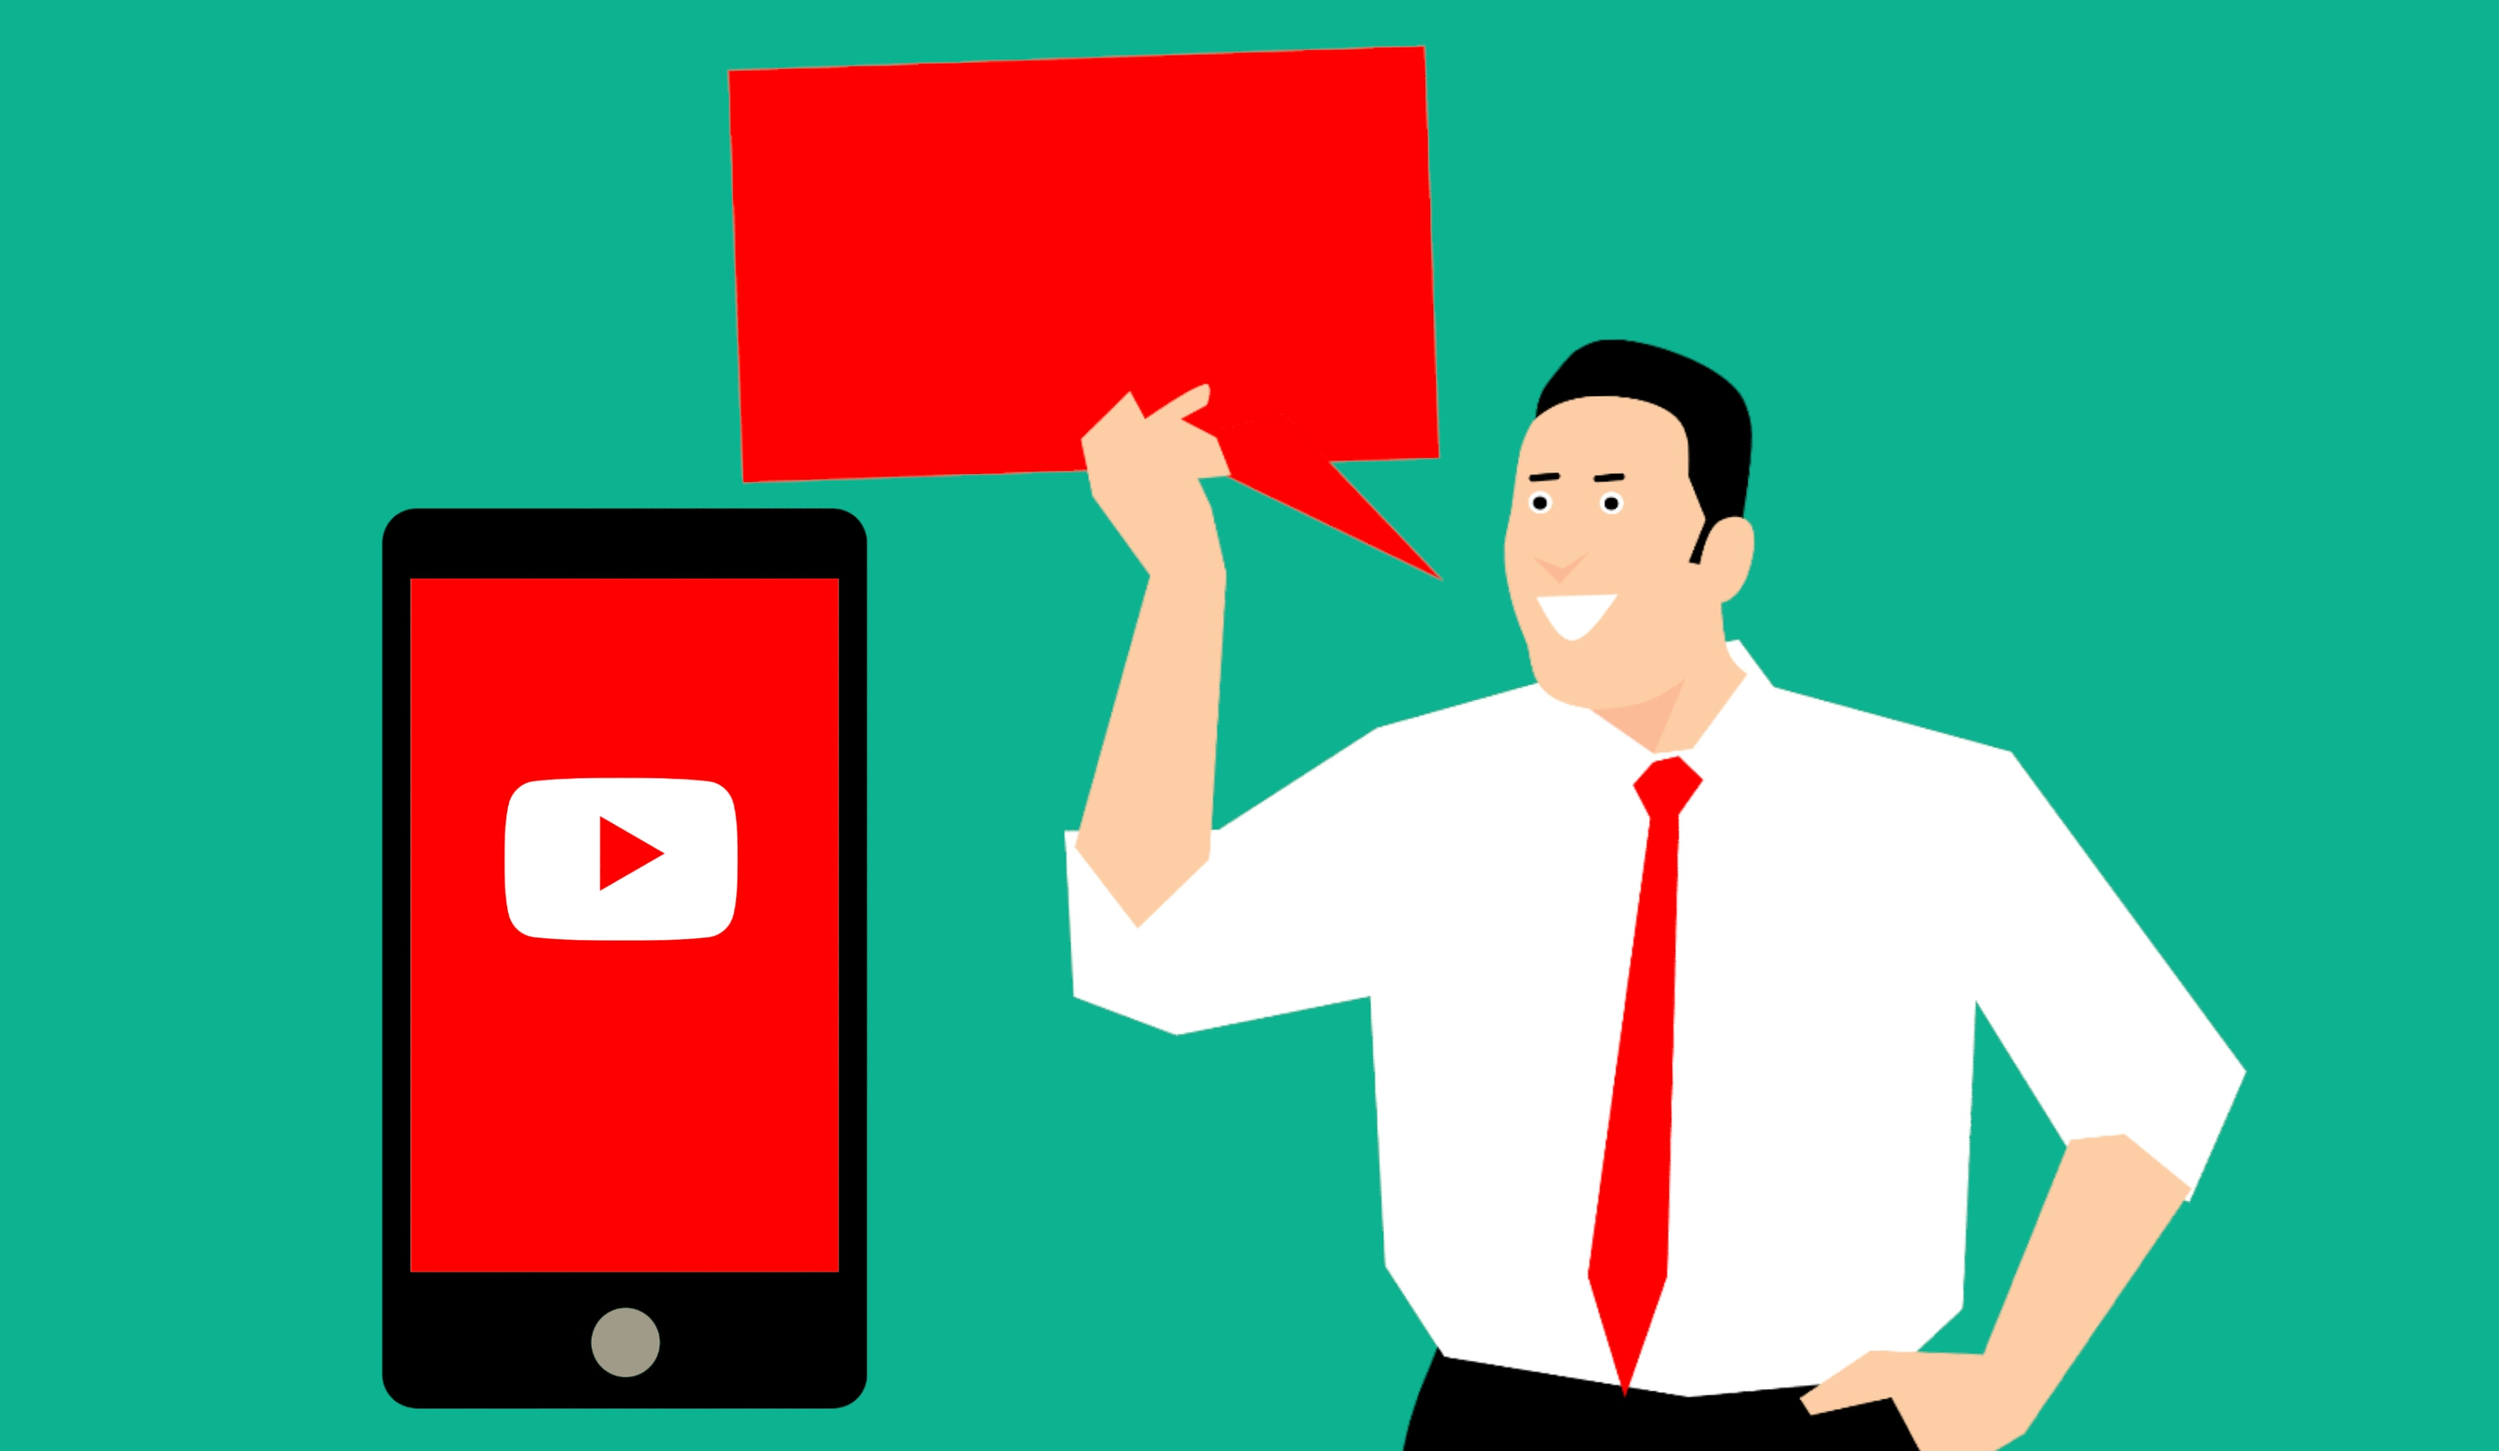
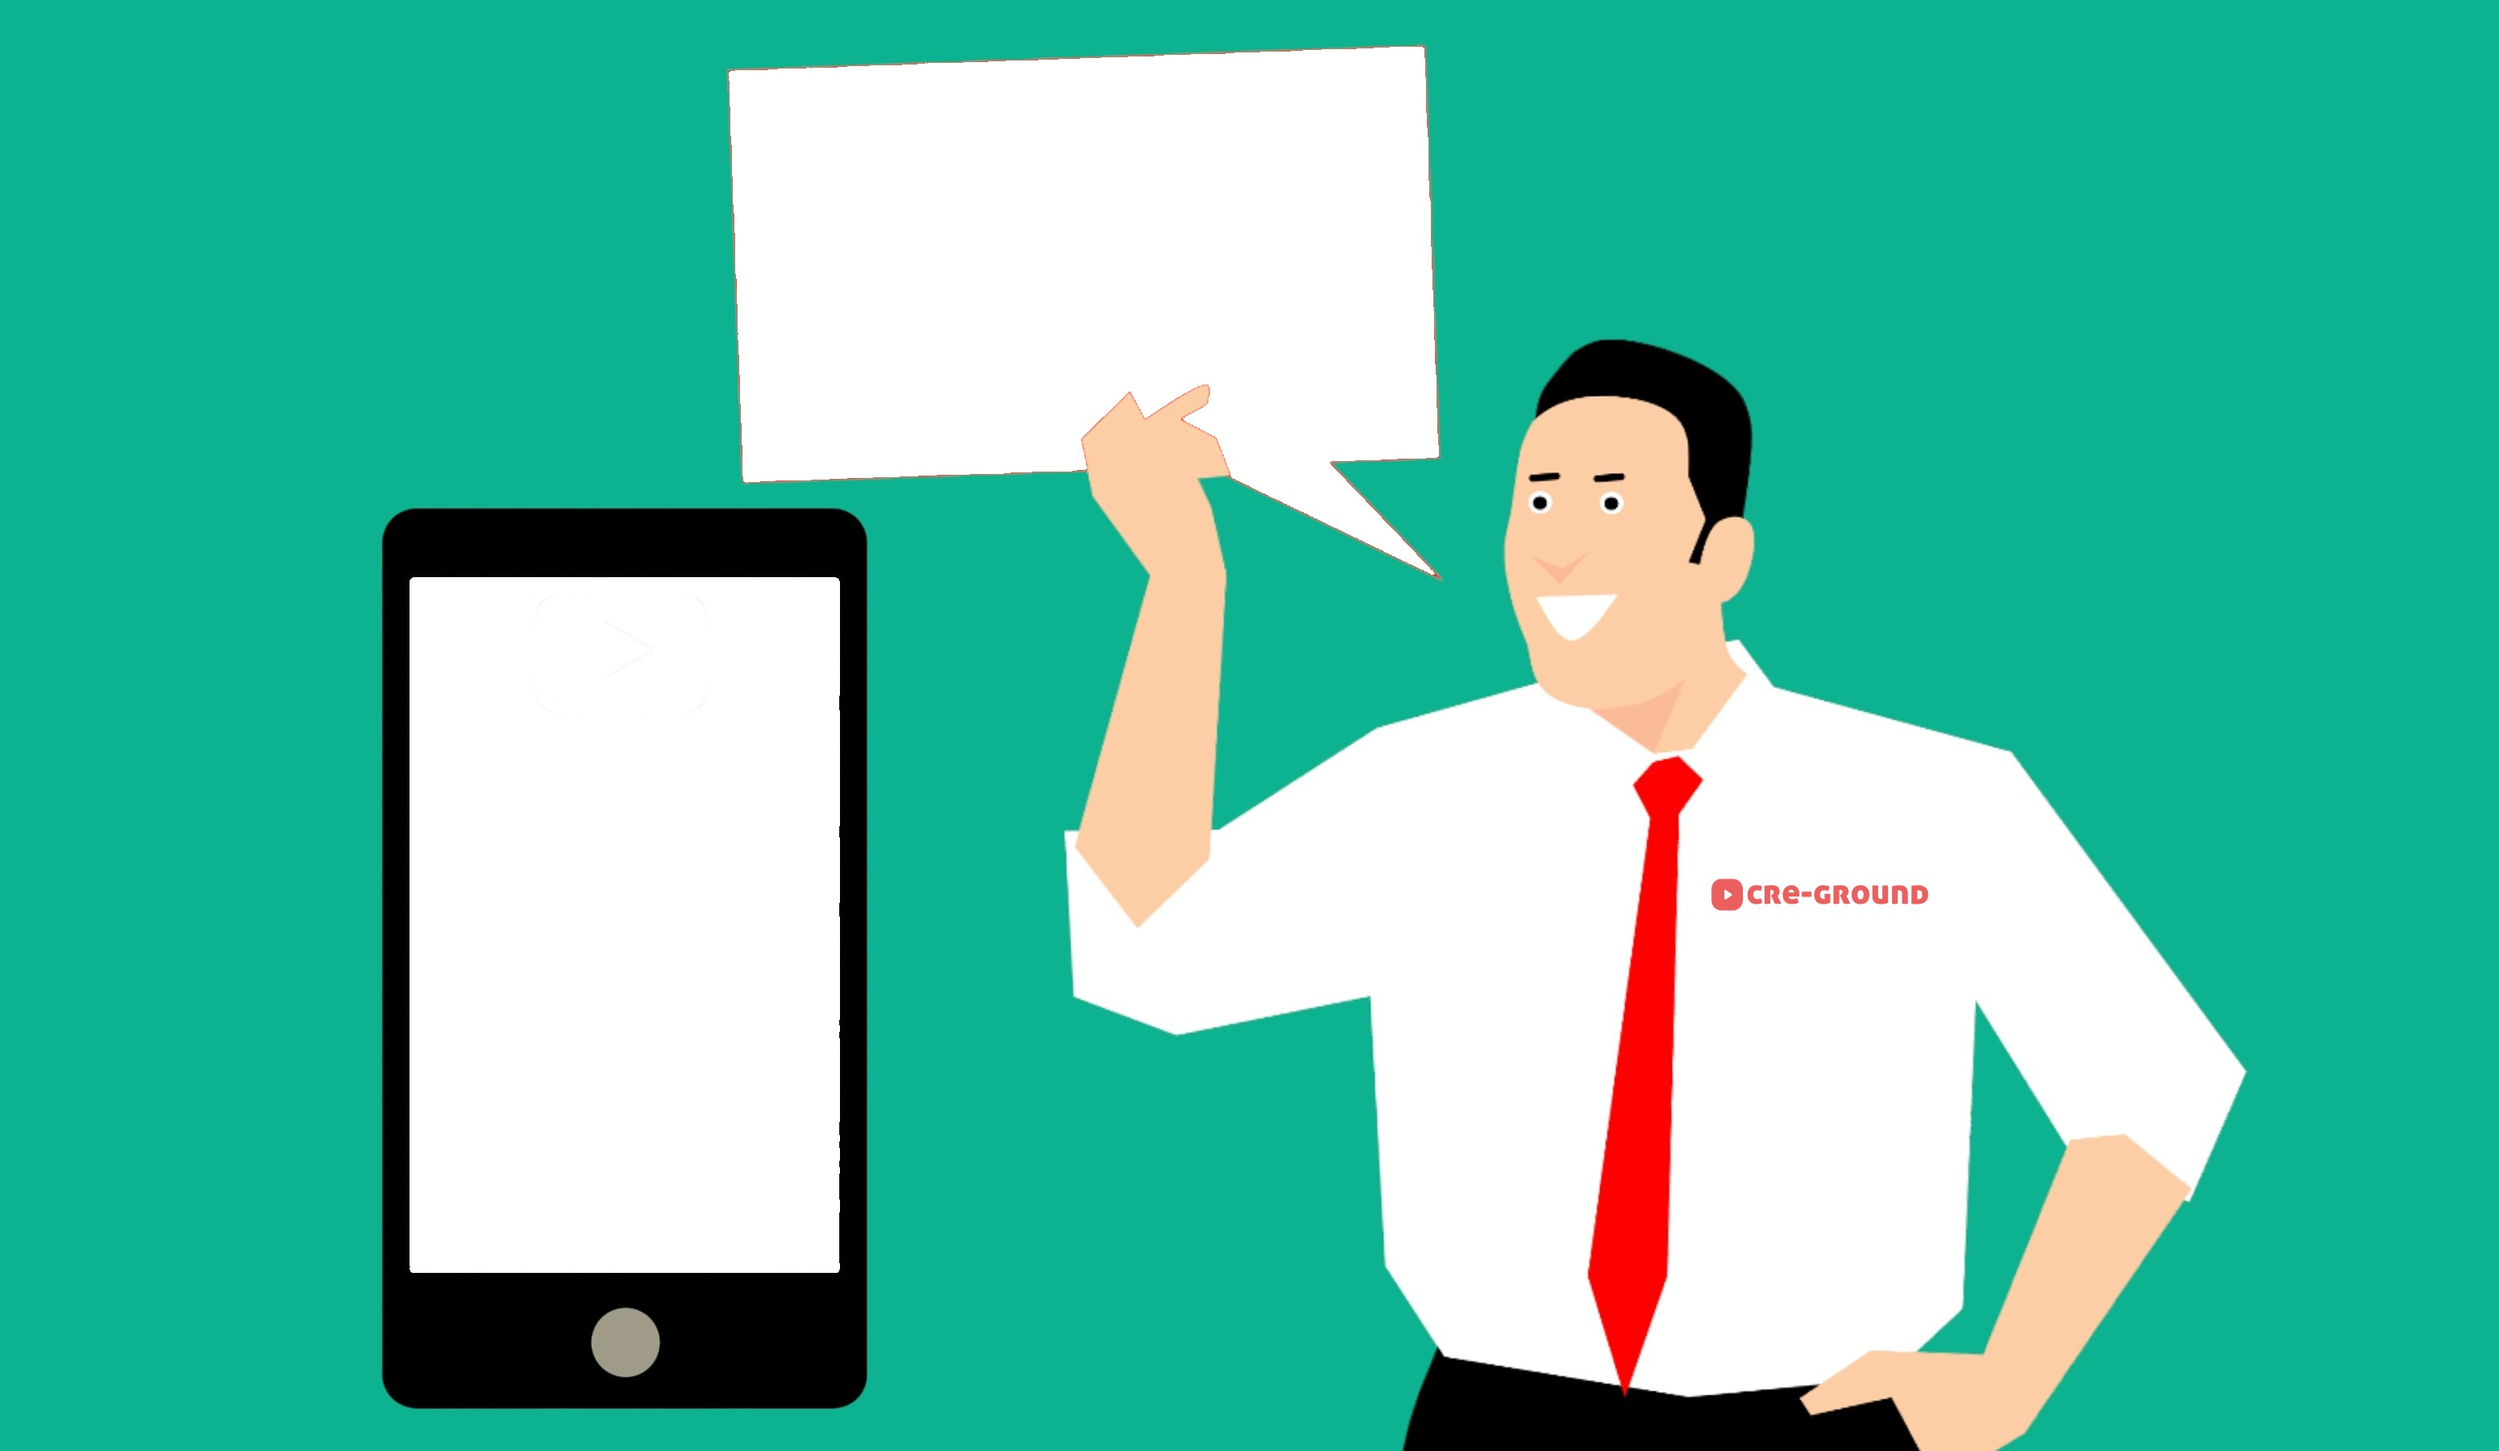
home 이미지, 버튼추가

diff --git a/practice/public/css/index.css b/practice/public/css/index.css
@@ -1,3 +1,4 @@
+@import url(//fonts.googleapis.com/earlyaccess/notosanskr.css); 
 /*
 * background
 *   white : #dce7eb
@@ -9,7 +10,7 @@
 */
 html{
     background-color : white;
-    font-family:'Malgun Gothic', sans-serif;
+    font-family: "Noto Sans KR", sans-serif;
     height : 100%;
 }
 body{
@@ -17,8 +18,9 @@ body{
     width:100%;
 }
 #home_img{
-    width:90%;
+    width:1100px;
     height : 600px;
+    position: absolute;
 }
 .body_content{
     background-color: #f2f2f2;
@@ -42,6 +44,7 @@ header{
     -webkit-font-smoothing: antialiased;
     background-color: white;
 }
+/*
 #logo {
     width : 200px;
     word-wrap: break-word;
@@ -67,9 +70,46 @@ header{
     margin-left : 9px;
     top : 0px;
 }
+*/
 ul{
     list-style: none;
 }
+#home_register{
+    height : 70px;
+    width : 160px;
+    outline:none;
+    text-align: center;
+    border-radius:10px;
+    background: #fff;
+    border: 2px solid #fd8282;
+    color:black;
+    letter-spacing:1px;
+    text-shadow:0;
+    size : 10px;
+    cursor : pointer;
+    transition : all 0.25s ease;
+    position : absolute;
+    top:300px;
+    left : 195px;
+    font-family: "Noto Sans KR", sans-serif;
+}
+#home_register:hover{
+    border-color:yellowgreen;
+}
+#btn_span{
+    font-weight : bold;
+    font-size : 20px;
+    color : #fd8282;
+}
+#btn_span_camp{
+    color : black;
+}
+.body_content{
+    position : absolute;
+    left : 200px;
+    top : 50px;
+}
+/*
 .왼쪽메뉴{
     height : 100%;
     width : 200px;
@@ -95,6 +135,7 @@ ul{
     transition : all 0.25s ease;
     margin-bottom : 10px;
 }
+
 .왼쪽메뉴 ul li button:hover{
     color:white;
     background: #fd8282;
@@ -109,14 +150,9 @@ ul{
     background: #fd8282;
     text-decoration:none;
 }
-.body_content{
-    position : absolute;
-    left : 200px;
-    top : 50px;
-}
+
 .문의내용광고{
     border : solid 1px;
-    /**/
     left : 200px;
     height : 200px;
     width : 400px;
@@ -125,7 +161,6 @@ ul{
 }
 .공모나열{
     border: solid 1px;
-    /**/
     max-width: 1600px;
     overflow: hidden;
     left : 250px;
@@ -232,3 +267,5 @@ ul{
 footer{
     background-color:white;
 }
+
+*/
